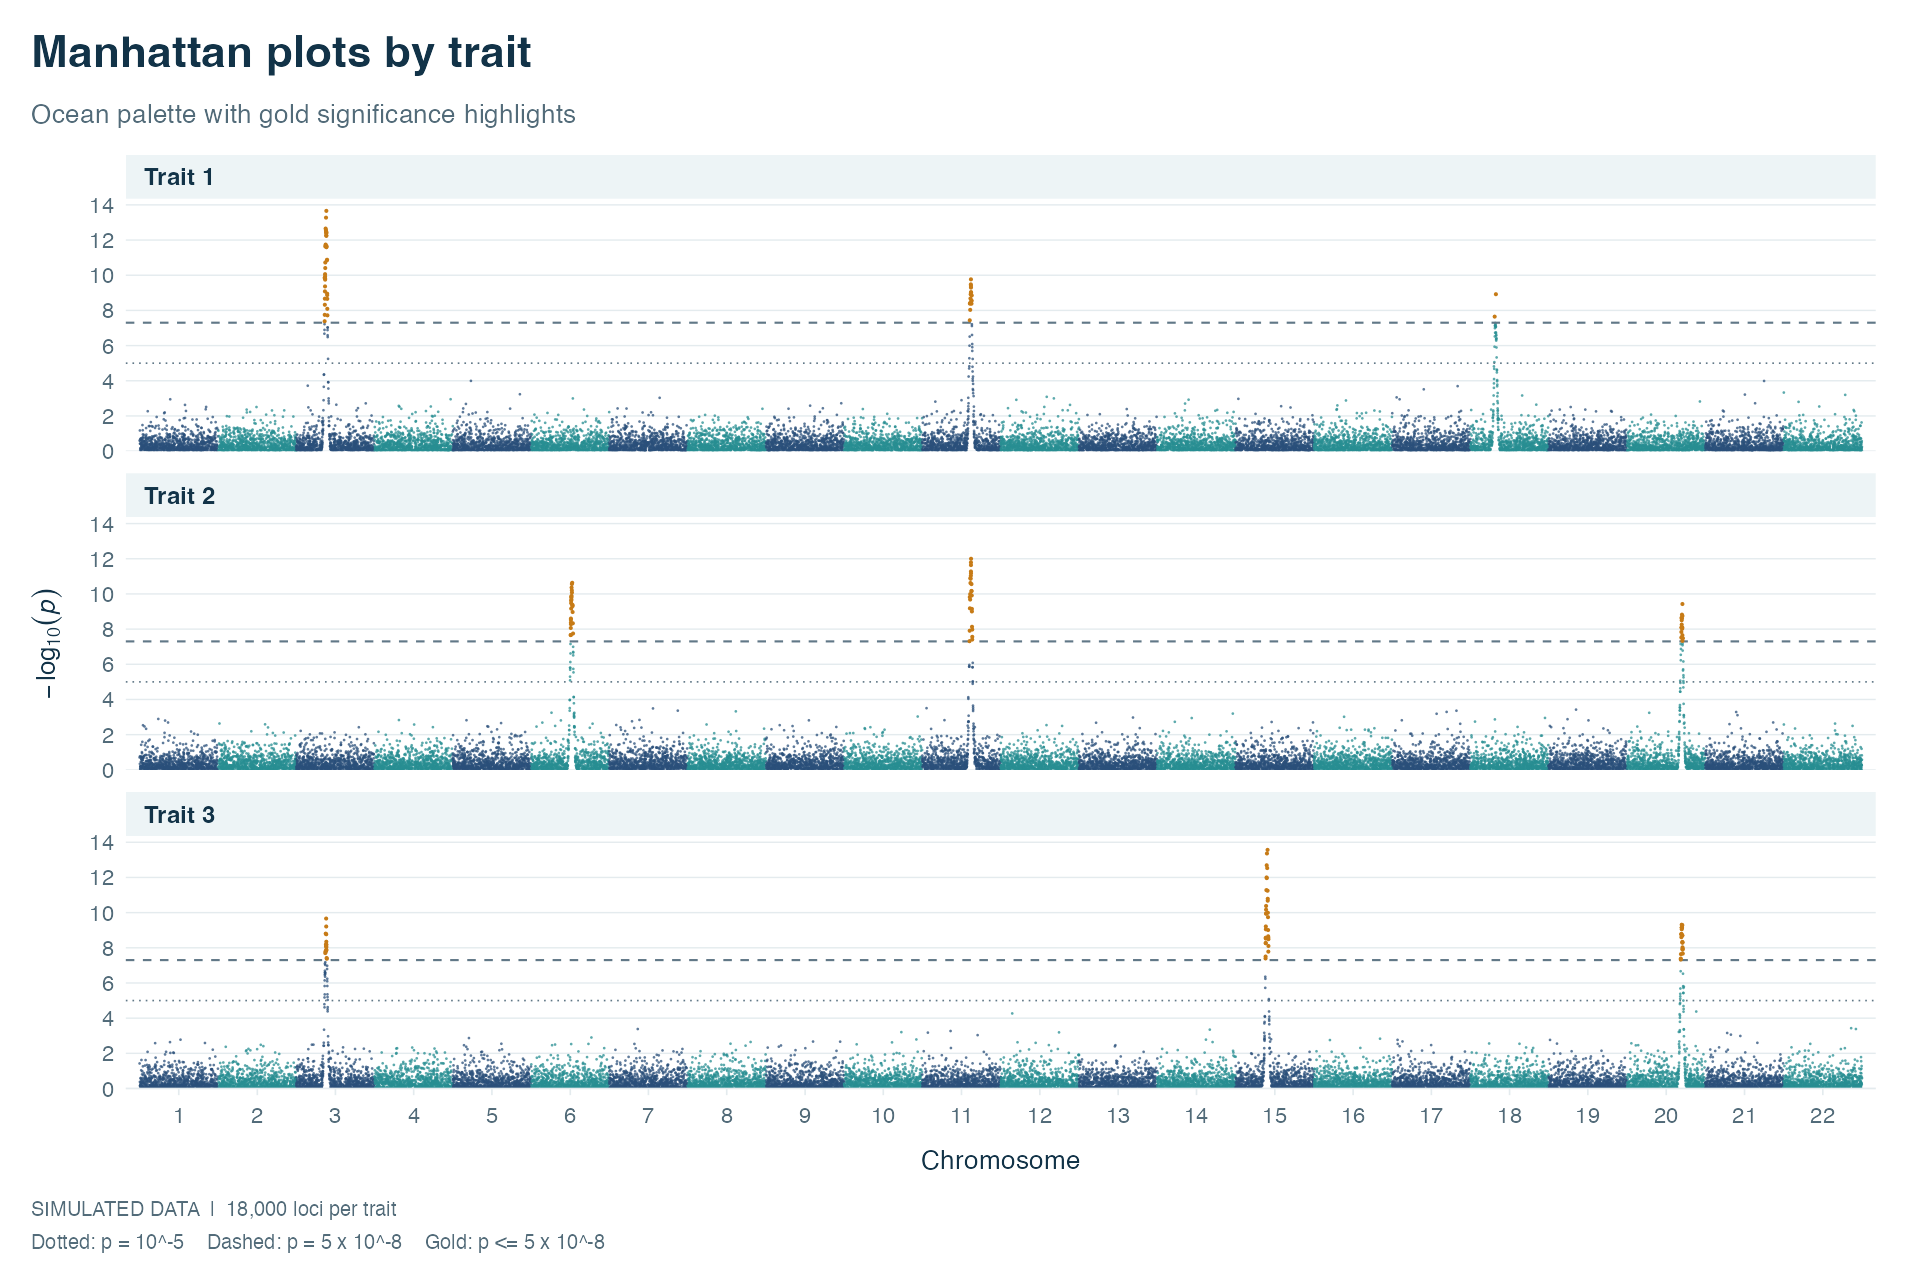
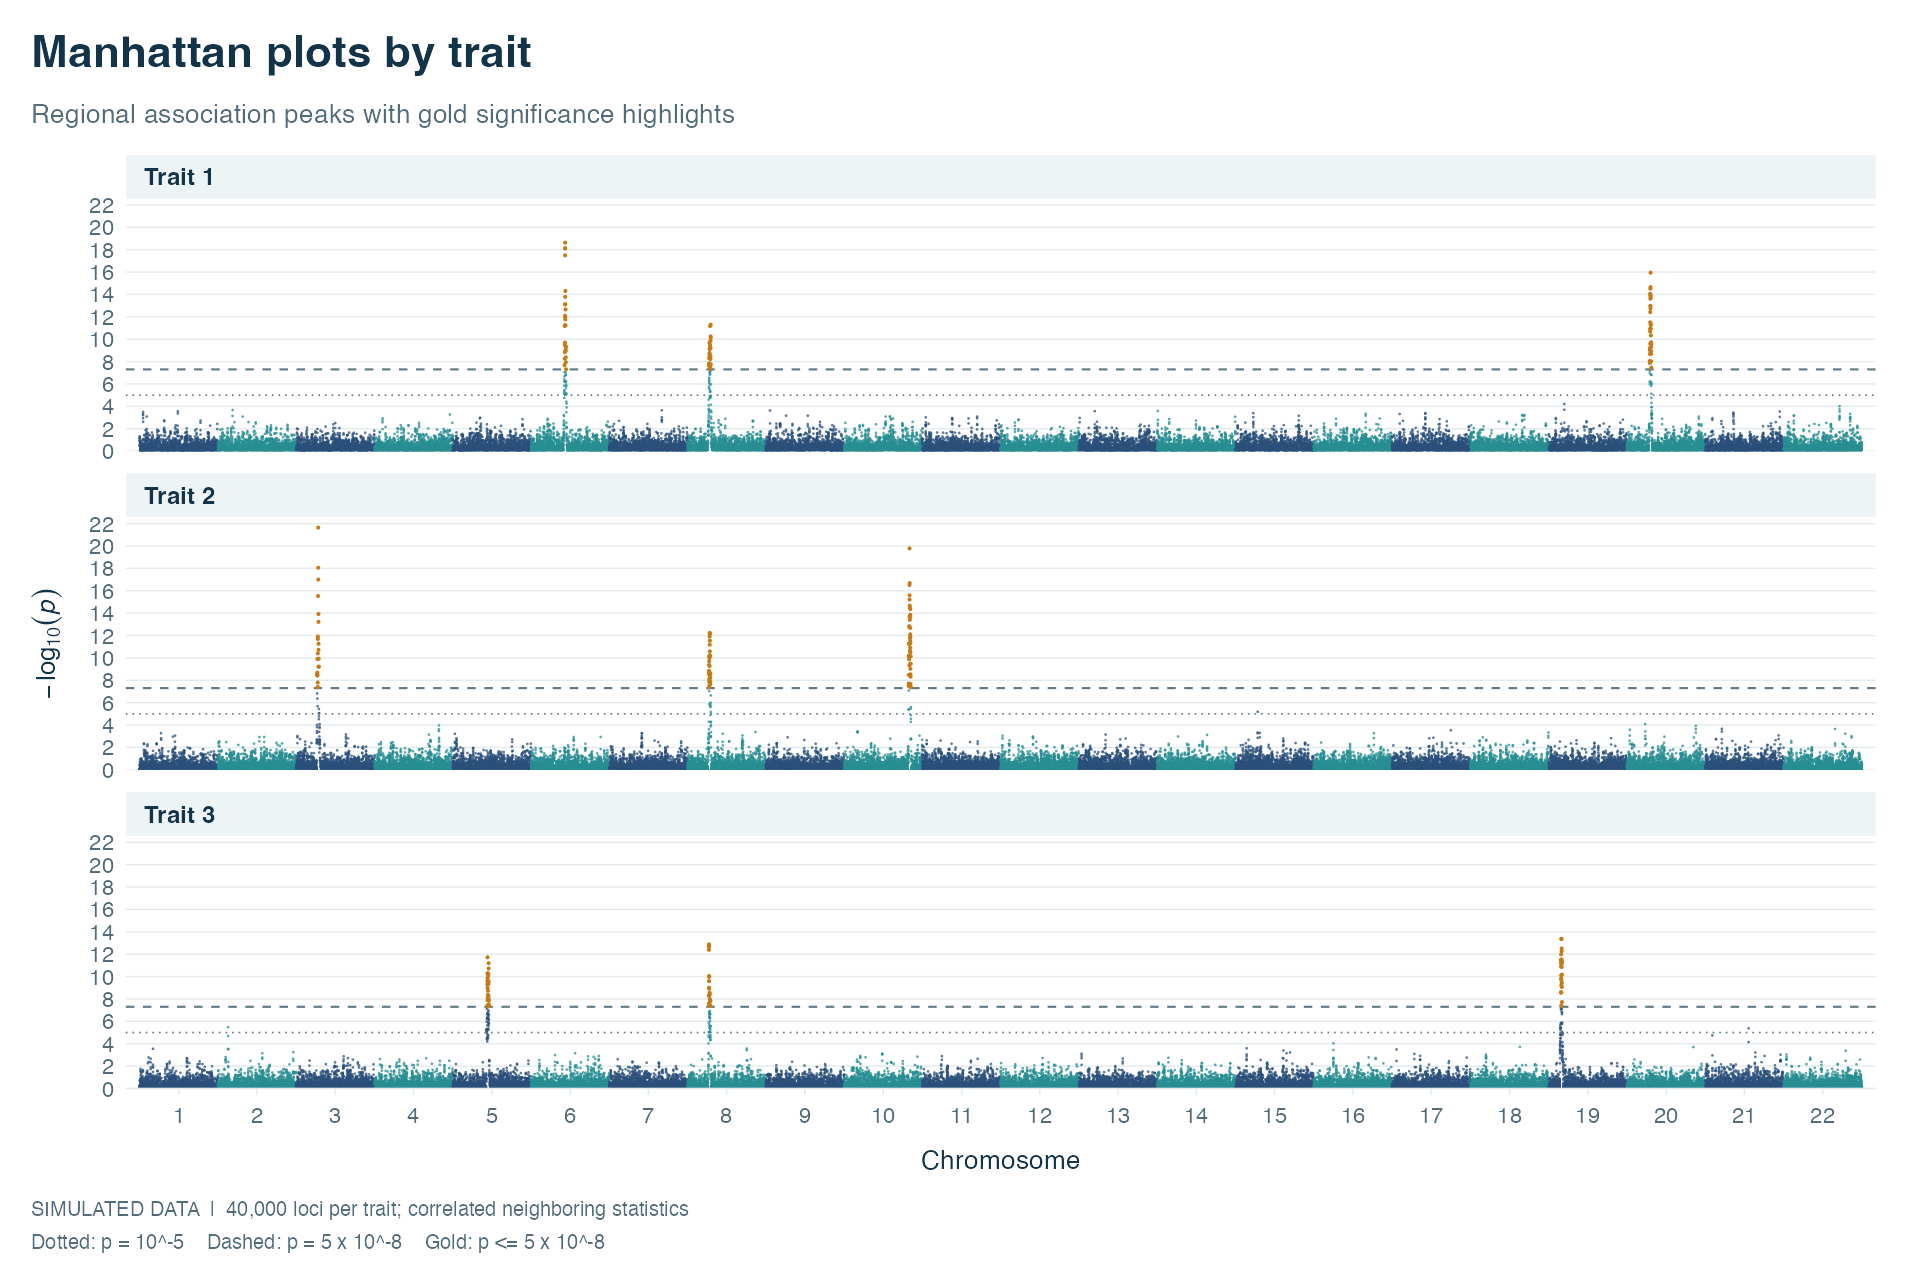
Simulate regional GWAS peaks with locally correlated statistics
Replace isolated random hits with Gaussian regional effects, correlated normal background, and shared plus trait-specific peak centres. Add peak controls and metadata, update the Ocean example, and test signal clustering and null calibration.

diff --git a/README.md b/README.md
@@ -154,7 +154,8 @@ ggplot2 layers, or saved with `ggsave()`.
 
 ## Simulated data
 
-`simulate_gwas_data(n_snps = 40000, n_traits = 3, n_chromosomes = 22)`
+`simulate_gwas_data(n_snps = 40000, n_traits = 3, n_chromosomes = 22,
+n_peaks = 3, peak_width = 3e6, peak_effect = 7)`
 returns columns `CHR`, `BP`, `P`, `SNP`, and `trait`.
 
 - All three counts must be single positive whole numbers.
@@ -167,9 +168,36 @@ returns columns `CHR`, `BP`, `P`, `SNP`, and `trait`.
 - Each locus keeps the same SNP ID, chromosome, and position across traits.
   Positions are sampled without replacement from 1 to 250,000,000 bp within
   each chromosome.
-- P-values vary between traits. Each occupied chromosome and trait receives
-  between 1 and 5 signal p-values, capped by the available SNP count.
+- P-values are derived from two-sided standard-normal tests, with correlated
+  background statistics for nearby SNPs. Away from peaks, the marginal null
+  p-values are uniform rather than truncated.
+- By default each trait has three regional signals. Effects taper with distance
+  from each centre, producing groups of associated neighboring SNPs. One centre
+  is shared across traits; the other centres and effect strengths vary. Centres
+  use different chromosomes when possible, otherwise they prefer separated loci.
 - Call `set.seed()` before generating data to reproduce an example.
+
+| Simulator argument | Default | Meaning |
+| --- | --- | --- |
+| `n_snps` | `40000` | Exact number of distinct loci per trait. |
+| `n_traits` | `3` | Number of traits. |
+| `n_chromosomes` | `22` | Number of chromosomes over which loci are distributed. |
+| `n_peaks` | `3` | Regional signal centres per trait, capped at the available SNP count; `0` generates background only. |
+| `peak_width` | `3e6` | Gaussian effect-profile standard deviation in base pairs; larger values produce broader peaks. |
+| `peak_effect` | `7` | Approximate absolute effect on the standard-normal statistic at a peak centre, varied by 10% between peaks; larger values tend to give stronger associations. |
+
+The count arguments must be whole numbers; `n_peaks` may be zero, and the other
+counts must be positive. Width and effect must be finite positive numbers.
+Background correlation decays exponentially with physical distance, with a
+decay length of `peak_width / 6`. Changing width therefore changes both the
+signal footprint and local noise correlation. The actual peak height varies
+with the simulated noise and marker density; sparse datasets may not contain
+enough neighboring markers to show a smooth regional peak.
+
+`attr(gwas_data, "peaks")` records each simulated centre's trait, chromosome,
+position, SNP ID, signed effect, and width. It describes the injected signals,
+not detected lead SNPs. The example image is generated directly by this
+simulator without adding separate artificial p-value peaks in the plotting code.
 
 ```r
 set.seed(42)
@@ -186,8 +214,9 @@ regional_data <- subset(gwas_data, CHR == 1)
 print(gg.manhattan(regional_data, facet_by_trait = TRUE))
 ```
 
-These data illustrate plotting behaviour. They do not model linkage
-disequilibrium, genetic architecture, or correlations between traits.
+These are illustrative summary statistics with LD-like local correlation,
+not a genotype-based GWAS or a calibrated model of linkage disequilibrium,
+population structure, heritability, or genetic correlations between traits.
 
 ## Regression checks
 
@@ -200,6 +229,8 @@ independent trait p-values, small and nondivisible SNP counts, invalid arguments
 source-time behaviour, threshold coordinates, and default-size plots. Style
 checks also cover exact-threshold highlights, custom and disabled highlights,
 raw-value plots, nonconsecutive chromosome labels, and visible threshold lines.
+Simulation checks cover regional signal clusters, null p-value calibration,
+peak controls, and shared centre metadata.
 
 ## Files
 
